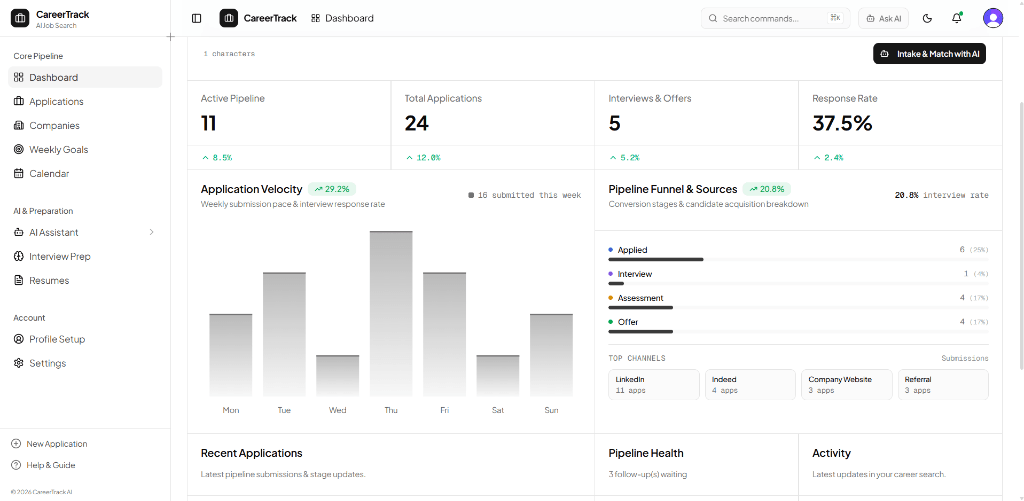
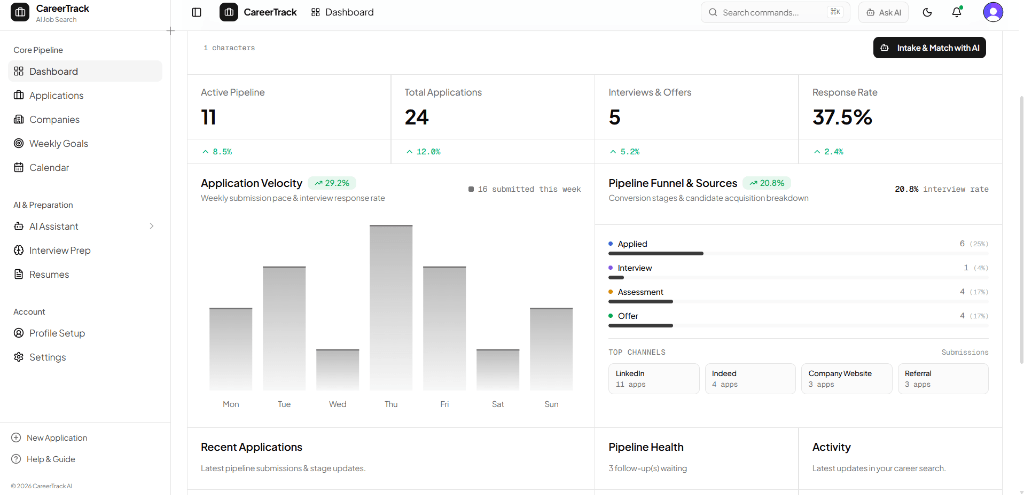
fix(landing): remove top dark line seam artifact from dashboard screenshots and align height

diff --git a/src/components/hero.tsx b/src/components/hero.tsx
@@ -115,7 +115,7 @@ export function HeroSection() {
 					<Image
 						alt="CareerTrack Dashboard Preview (Dark Mode)"
 						className="hidden dark:block w-full h-auto object-cover pointer-events-none select-none"
-						height={501}
+						height={495}
 						src="/dashboard-dark.png"
 						width={1024}
 						priority
@@ -125,7 +125,7 @@ export function HeroSection() {
 					<Image
 						alt="CareerTrack Dashboard Preview (Light Mode)"
 						className="block dark:hidden w-full h-auto object-cover pointer-events-none select-none"
-						height={501}
+						height={495}
 						src="/dashboard-light.png"
 						width={1024}
 						priority
